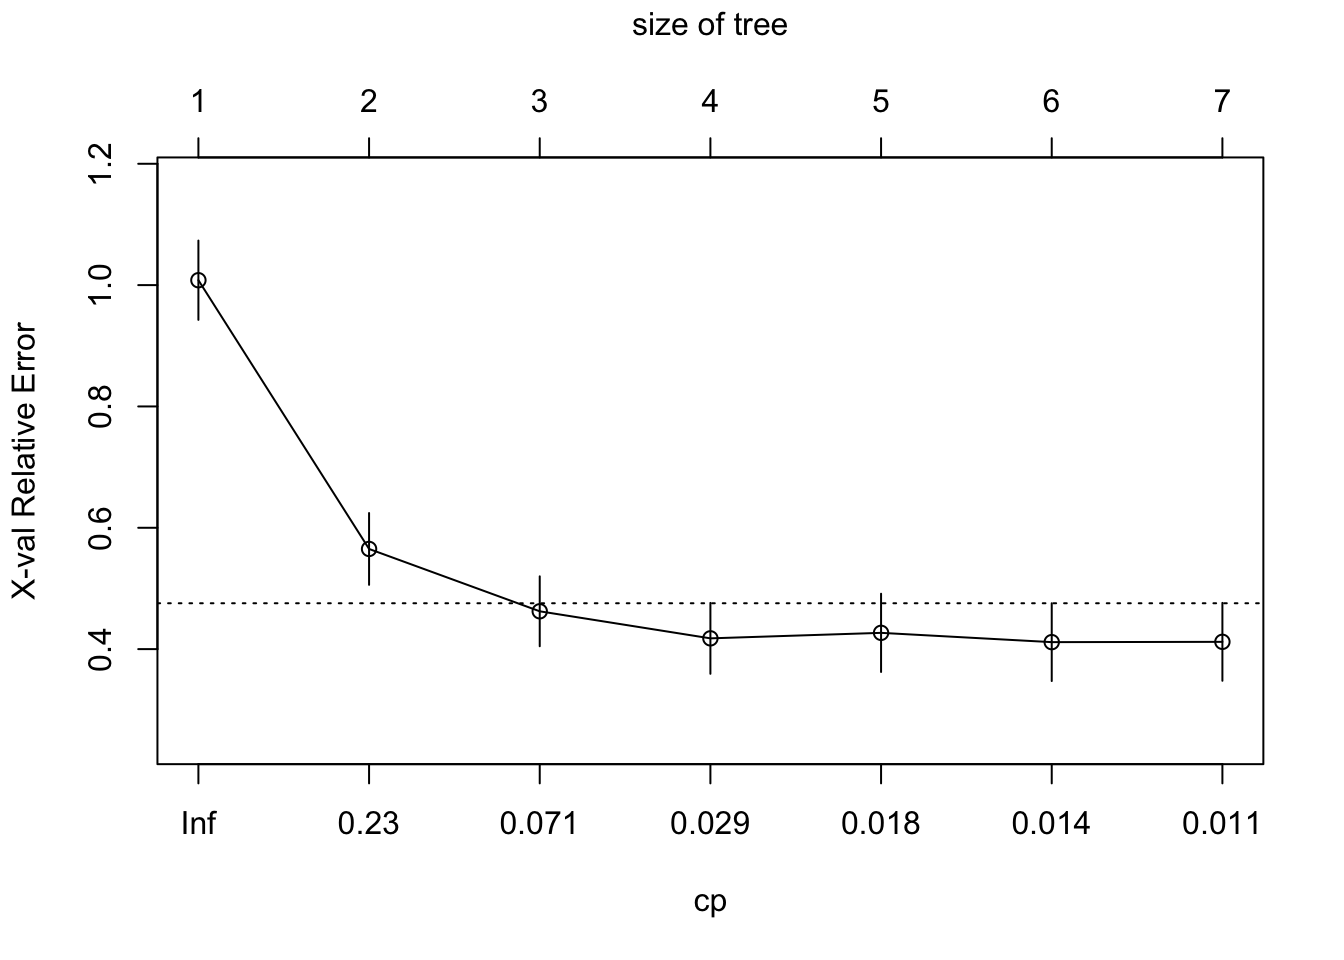
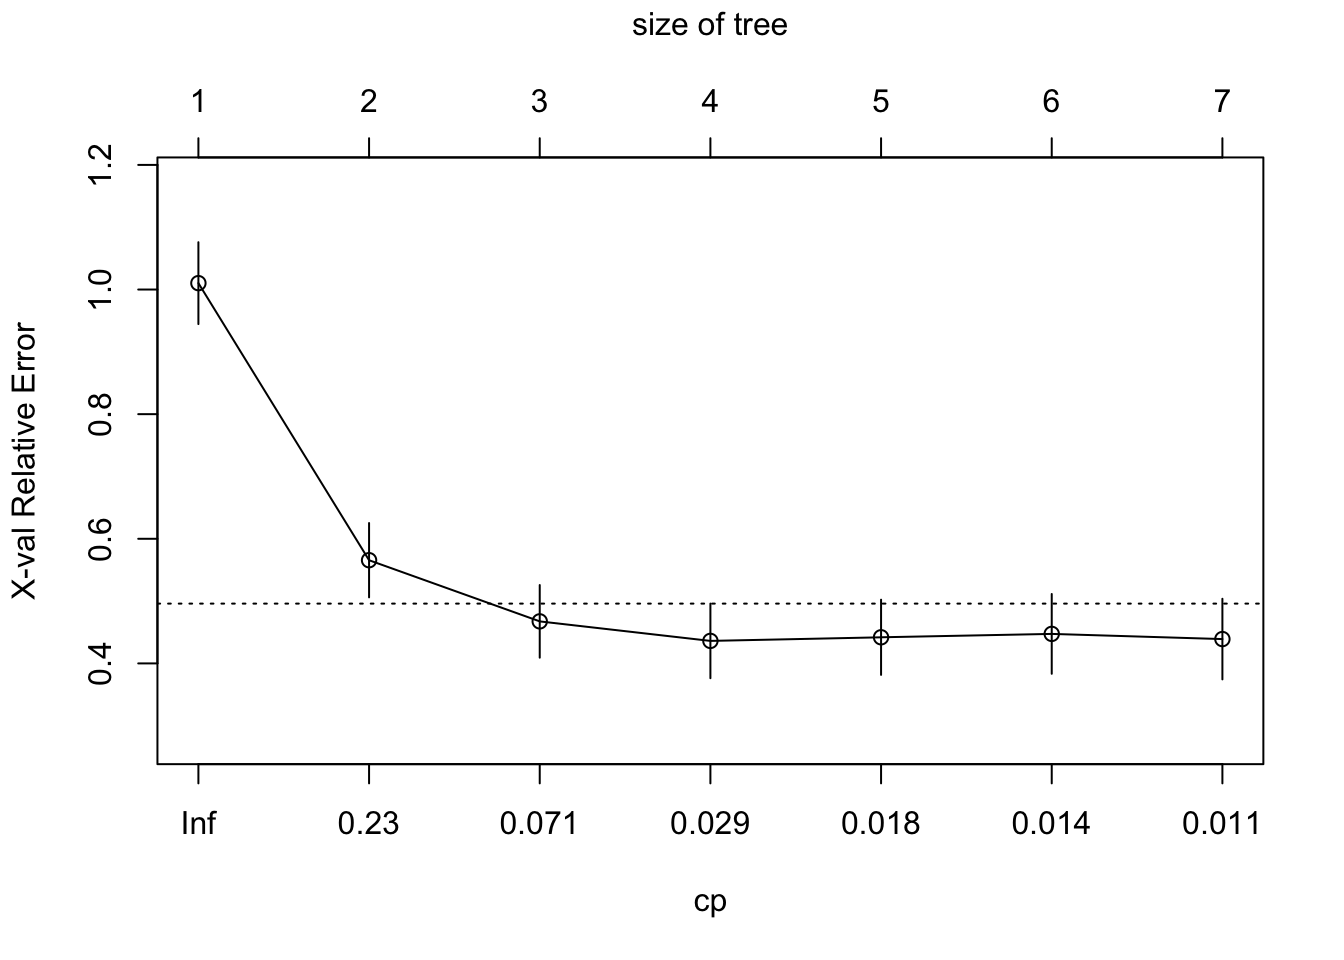
finalize lesson06

diff --git a/_site/lesson06/index.html b/_site/lesson06/index.html
@@ -565,28 +565,28 @@ $ AHD       &lt;chr&gt; "No", "Yes", "Yes", "No", "No", "No", "Yes", "No", "Yes"
 <div class="sourceCode cell-code" id="cb14"><pre class="sourceCode r code-with-copy"><code class="sourceCode r"><span id="cb14-1"><a href="#cb14-1" aria-hidden="true" tabindex="-1"></a>heart_dt <span class="ot">&lt;-</span> rpart<span class="sc">::</span><span class="fu">rpart</span>(AHD <span class="sc">~</span> .,</span>
 <span id="cb14-2"><a href="#cb14-2" aria-hidden="true" tabindex="-1"></a>                           <span class="at">data=</span>Heart,</span>
 <span id="cb14-3"><a href="#cb14-3" aria-hidden="true" tabindex="-1"></a>                           <span class="at">method=</span><span class="st">"class"</span>,</span>
-<span id="cb14-4"><a href="#cb14-4" aria-hidden="true" tabindex="-1"></a>                           <span class="at">control=</span><span class="fu">list</span>(<span class="at">cp =</span> <span class="fl">0.0</span>,<span class="at">xval=</span><span class="dv">10</span>))</span>
+<span id="cb14-4"><a href="#cb14-4" aria-hidden="true" tabindex="-1"></a>                           <span class="at">control=</span><span class="fu">list</span>(<span class="at">cp =</span> <span class="fl">0.0</span>,<span class="at">xval=</span><span class="dv">0</span>))</span>
 <span id="cb14-5"><a href="#cb14-5" aria-hidden="true" tabindex="-1"></a></span>
 <span id="cb14-6"><a href="#cb14-6" aria-hidden="true" tabindex="-1"></a>rpart.plot<span class="sc">::</span><span class="fu">rpart.plot</span>(heart_dt)</span></code><button title="Copy to Clipboard" class="code-copy-button"><i class="bi"></i></button></pre></div>
 <div class="cell-output-display">
 <p><img src="index_files/figure-html/unnamed-chunk-15-1.png" class="img-fluid" width="672"></p>
 </div>
 </div>
-<p>Let’s look at the cross-validation results.</p>
+<p>Now let’s include some pruning.</p>
 <div class="cell">
-<div class="sourceCode cell-code" id="cb15"><pre class="sourceCode r code-with-copy"><code class="sourceCode r"><span id="cb15-1"><a href="#cb15-1" aria-hidden="true" tabindex="-1"></a>rpart<span class="sc">::</span><span class="fu">plotcp</span>(heart_dt)</span></code><button title="Copy to Clipboard" class="code-copy-button"><i class="bi"></i></button></pre></div>
+<div class="sourceCode cell-code" id="cb15"><pre class="sourceCode r code-with-copy"><code class="sourceCode r"><span id="cb15-1"><a href="#cb15-1" aria-hidden="true" tabindex="-1"></a>heart_dt_2 <span class="ot">&lt;-</span> rpart<span class="sc">::</span><span class="fu">rpart</span>(AHD <span class="sc">~</span> .,</span>
+<span id="cb15-2"><a href="#cb15-2" aria-hidden="true" tabindex="-1"></a>                           <span class="at">data=</span>Heart,</span>
+<span id="cb15-3"><a href="#cb15-3" aria-hidden="true" tabindex="-1"></a>                           <span class="at">method=</span><span class="st">"class"</span>,</span>
+<span id="cb15-4"><a href="#cb15-4" aria-hidden="true" tabindex="-1"></a>                           <span class="at">control=</span><span class="fu">list</span>(<span class="at">cp =</span> <span class="fl">0.032</span>,<span class="at">xval=</span><span class="dv">10</span>))</span>
+<span id="cb15-5"><a href="#cb15-5" aria-hidden="true" tabindex="-1"></a></span>
+<span id="cb15-6"><a href="#cb15-6" aria-hidden="true" tabindex="-1"></a>rpart.plot<span class="sc">::</span><span class="fu">rpart.plot</span>(heart_dt_2)</span></code><button title="Copy to Clipboard" class="code-copy-button"><i class="bi"></i></button></pre></div>
 <div class="cell-output-display">
 <p><img src="index_files/figure-html/unnamed-chunk-16-1.png" class="img-fluid" width="672"></p>
 </div>
 </div>
-<p>Now let’s include some pruning.</p>
+<p>We can see the cross-validation results.</p>
 <div class="cell">
-<div class="sourceCode cell-code" id="cb16"><pre class="sourceCode r code-with-copy"><code class="sourceCode r"><span id="cb16-1"><a href="#cb16-1" aria-hidden="true" tabindex="-1"></a>heart_dt_2 <span class="ot">&lt;-</span> rpart<span class="sc">::</span><span class="fu">rpart</span>(AHD <span class="sc">~</span> .,</span>
-<span id="cb16-2"><a href="#cb16-2" aria-hidden="true" tabindex="-1"></a>                           <span class="at">data=</span>Heart,</span>
-<span id="cb16-3"><a href="#cb16-3" aria-hidden="true" tabindex="-1"></a>                           <span class="at">method=</span><span class="st">"class"</span>,</span>
-<span id="cb16-4"><a href="#cb16-4" aria-hidden="true" tabindex="-1"></a>                           <span class="at">control=</span><span class="fu">list</span>(<span class="at">cp =</span> <span class="fl">0.032</span>,<span class="at">xval=</span><span class="dv">10</span>))</span>
-<span id="cb16-5"><a href="#cb16-5" aria-hidden="true" tabindex="-1"></a></span>
-<span id="cb16-6"><a href="#cb16-6" aria-hidden="true" tabindex="-1"></a>rpart.plot<span class="sc">::</span><span class="fu">rpart.plot</span>(heart_dt_2)</span></code><button title="Copy to Clipboard" class="code-copy-button"><i class="bi"></i></button></pre></div>
+<div class="sourceCode cell-code" id="cb16"><pre class="sourceCode r code-with-copy"><code class="sourceCode r"><span id="cb16-1"><a href="#cb16-1" aria-hidden="true" tabindex="-1"></a>rpart<span class="sc">::</span><span class="fu">plotcp</span>(heart_dt_2)</span></code><button title="Copy to Clipboard" class="code-copy-button"><i class="bi"></i></button></pre></div>
 <div class="cell-output-display">
 <p><img src="index_files/figure-html/unnamed-chunk-17-1.png" class="img-fluid" width="672"></p>
 </div>
